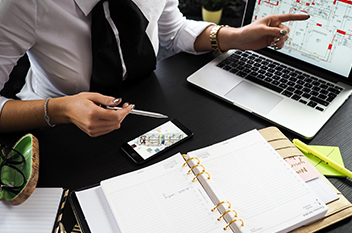
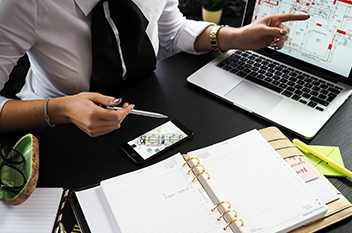
Resize images

diff --git a/_services/visualisation.md b/_services/visualisation.md
@@ -17,7 +17,7 @@ description: Good visualisation is a super-power. It is essential for discovery 
 <div class="row">
     <div class="col-xl-6 col-lg-12">
         <div class="s-details-img mb-30">
-            <img src="{{site.baseurl}}/assets/img/service/toroidal_field.png" alt="{{page.title}}">
+            <img src="{{site.baseurl}}/assets/img/service/toroidal_field.jpg" alt="{{page.title}}">
         </div>
     </div>
     <div class="col-xl-6 col-lg-12">
